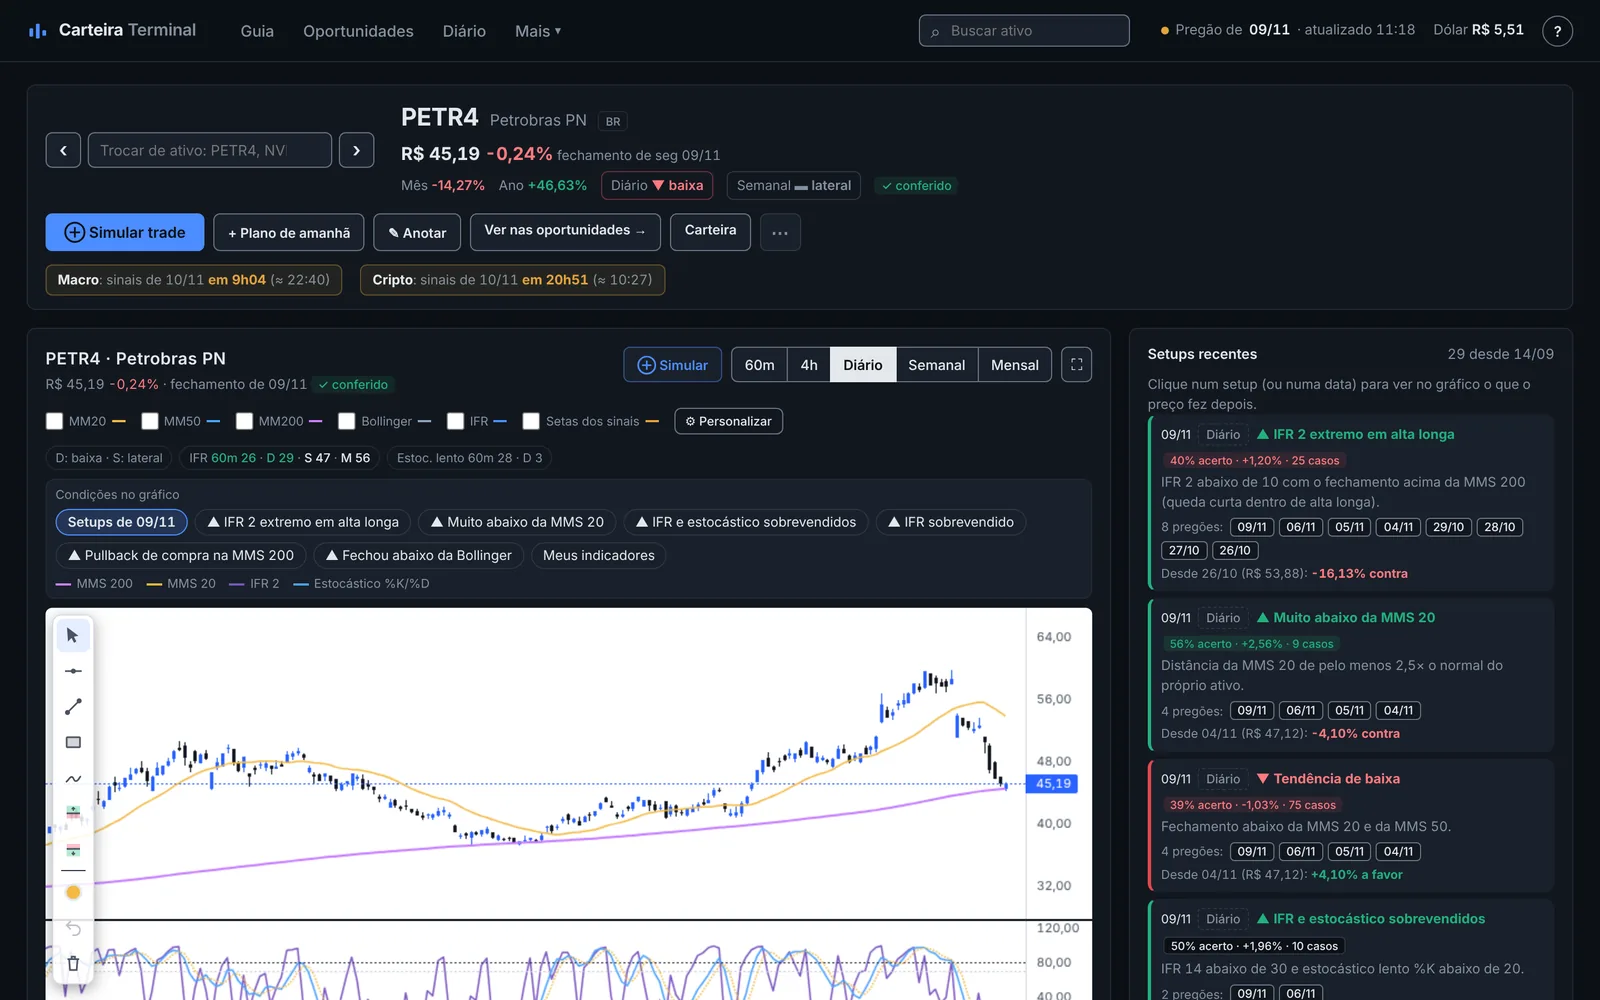
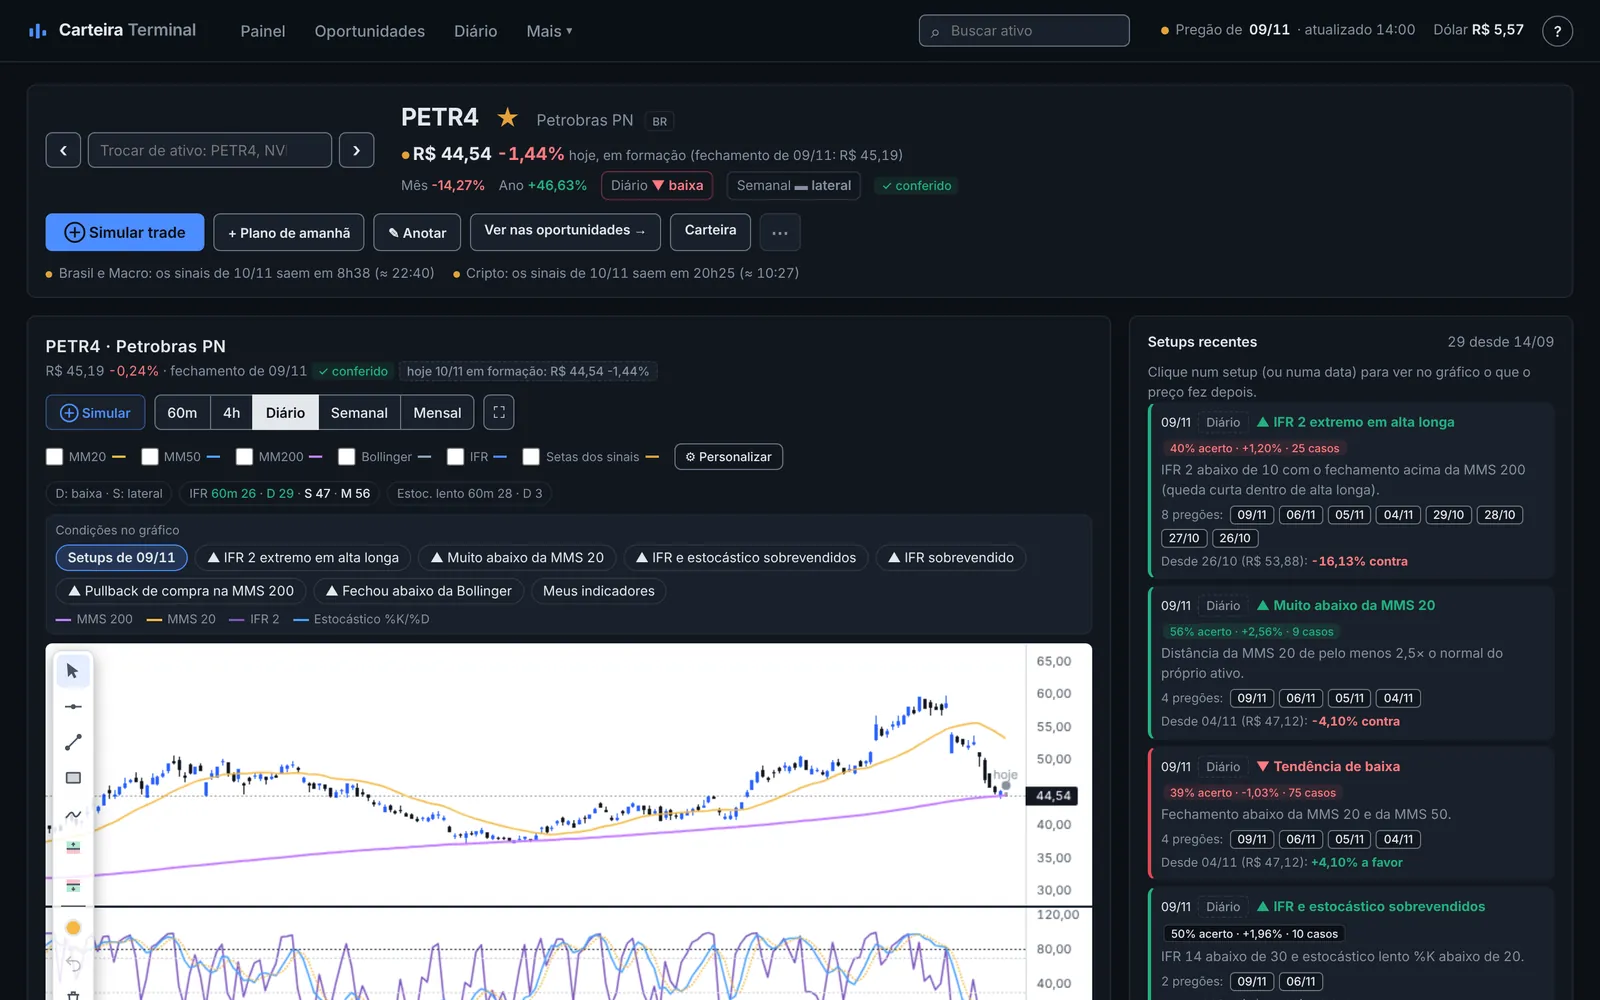
Landing: capturas refeitas com a versão nova e aba do Painel; dólar com 2 casas no Painel
Claude-Session: https://claude.ai/code/session_01Xpsoh6F86iT8zRfPQYwBfr

diff --git a/index.html b/index.html
@@ -161,29 +161,32 @@
     <section class="secao dentro" id="por-dentro" aria-labelledby="dentro-titulo">
       <p class="sobretitulo">Por dentro do terminal</p>
       <h2 id="dentro-titulo">O produto de verdade, <em>sem maquete</em>.</h2>
-      <p class="secao-sub">Quatro telas do terminal, como ele aparece para quem usa. Escolha uma:</p>
+      <p class="secao-sub">Cinco telas do terminal, como ele aparece para quem usa. Escolha uma:</p>
       <div class="dentro-abas" id="dentro-abas" role="tablist" aria-label="Telas do terminal">
-        <button type="button" role="tab" id="dentro-aba-0" aria-controls="dentro-painel" aria-selected="true">Oportunidades</button>
-        <button type="button" role="tab" id="dentro-aba-1" aria-controls="dentro-painel" aria-selected="false" tabindex="-1">Página do ativo</button>
-        <button type="button" role="tab" id="dentro-aba-2" aria-controls="dentro-painel" aria-selected="false" tabindex="-1">Top do dia</button>
-        <button type="button" role="tab" id="dentro-aba-3" aria-controls="dentro-painel" aria-selected="false" tabindex="-1">Backtest</button>
+        <button type="button" role="tab" id="dentro-aba-0" aria-controls="dentro-painel" aria-selected="true">Painel</button>
+        <button type="button" role="tab" id="dentro-aba-1" aria-controls="dentro-painel" aria-selected="false" tabindex="-1">Oportunidades</button>
+        <button type="button" role="tab" id="dentro-aba-2" aria-controls="dentro-painel" aria-selected="false" tabindex="-1">Página do ativo</button>
+        <button type="button" role="tab" id="dentro-aba-3" aria-controls="dentro-painel" aria-selected="false" tabindex="-1">Top do dia</button>
+        <button type="button" role="tab" id="dentro-aba-4" aria-controls="dentro-painel" aria-selected="false" tabindex="-1">Backtest</button>
       </div>
       <div class="dentro-janela vidro" id="dentro-painel" role="tabpanel" aria-labelledby="dentro-aba-0">
-        <div class="janela-barra" aria-hidden="true"><i></i><i></i><i></i><span id="dentro-url">carteira-terminal · oportunidades</span></div>
+        <div class="janela-barra" aria-hidden="true"><i></i><i></i><i></i><span id="dentro-url">carteira-terminal · painel</span></div>
         <div class="dentro-telas">
-          <img src="assets/img/landing/terminal-setups.webp" width="1600" height="1000" loading="lazy" decoding="async" data-tela="0"
+          <img src="assets/img/landing/terminal-painel.webp" width="1600" height="1000" loading="lazy" decoding="async" data-tela="0"
+            alt="Painel do terminal: índices do Brasil e do mundo com minigráfico, termômetro do mercado com a parcela de ativos em alta e em baixa, e o Top do dia com os sinais de melhor histórico.">
+          <img src="assets/img/landing/terminal-setups.webp" width="1600" height="1000" loading="lazy" decoding="async" data-tela="1" hidden
             alt="Tela Oportunidades do terminal: filtros à esquerda para escolher comprar ou vender, o mercado e o tipo de oportunidade, e à direita cartões de ativos com gráfico de velas e os setups que apareceram hoje.">
-          <img src="assets/img/landing/terminal-ativo.webp" width="1600" height="1000" loading="lazy" decoding="async" data-tela="1" hidden
+          <img src="assets/img/landing/terminal-ativo.webp" width="1600" height="1000" loading="lazy" decoding="async" data-tela="2" hidden
             alt="Página de um ativo (PETR4) no terminal: preço e variação, gráfico de velas com médias e a lista de setups recentes, cada um com a taxa de acerto e o número de casos anteriores.">
-          <img src="assets/img/landing/terminal-ranking.webp" width="1600" height="1000" loading="lazy" decoding="async" data-tela="2" hidden
+          <img src="assets/img/landing/terminal-ranking.webp" width="1600" height="1000" loading="lazy" decoding="async" data-tela="3" hidden
             alt="Tela Top do dia: duas listas, uma de compra e outra de venda, com os sinais de hoje que têm o melhor histórico, mostrando quantas vezes o setup deu lucro naquele ativo.">
-          <img src="assets/img/landing/terminal-backtest.webp" width="1600" height="1000" loading="lazy" decoding="async" data-tela="3" hidden
+          <img src="assets/img/landing/terminal-backtest.webp" width="1600" height="1000" loading="lazy" decoding="async" data-tela="4" hidden
             alt="Tela Backtest: tabela com cada setup, o número de casos em 6 anos, a taxa de acerto, o retorno médio e a vantagem sobre entrar num dia qualquer, ao lado da lista de ativos onde o setup escolhido funcionou melhor.">
         </div>
       </div>
       <p class="dentro-legenda" id="dentro-legenda" aria-live="polite"></p>
       <p class="dentro-dica">Deslize a imagem para os lados para ver a tela inteira.</p>
-      <div class="prova-acoes"><a class="botao botao-primario" id="dentro-link" href="setups.html">Abrir esta tela no terminal →</a></div>
+      <div class="prova-acoes"><a class="botao botao-primario" id="dentro-link" href="painel.html">Abrir esta tela no terminal →</a></div>
       <p class="aviso-legal">Capturas reais do terminal publicado; os números mudam todo dia. Resultado passado não garante resultado futuro. Não é recomendação de investimento.</p>
     </section>
 

diff --git a/assets/js/landing.js b/assets/js/landing.js
@@ -429,6 +429,7 @@
     const abas = $$("#dentro-abas [role=tab]"), telas = $$(".dentro-telas img"), painel = $("#dentro-painel");
     if (!abas.length) return;
     const TELAS = [
+      { url: "carteira-terminal · painel", href: "painel.html", legenda: "Painel: como está o mercado hoje, em uma tela. Índices, quantos ativos estão em alta ou em baixa, o mapa de calor e os sinais com melhor histórico." },
       { url: "carteira-terminal · oportunidades", href: "setups.html", legenda: "Oportunidades: escolha comprar ou vender, o mercado e o tipo de oportunidade, e veja os ativos que formaram um setup hoje, cada um no gráfico." },
       { url: "carteira-terminal · ativo", href: "ativo.html#PETR4.SA", legenda: "Página do ativo: gráfico completo e os setups recentes, cada um com quantas vezes aquele sinal deu lucro naquele ativo." },
       { url: "carteira-terminal · top do dia", href: "ranking.html", legenda: "Top do dia: os sinais de hoje com o melhor histórico, de compra e de venda, ordenados pela confiabilidade dos casos anteriores." },

diff --git a/assets/js/painel.js b/assets/js/painel.js
@@ -115,7 +115,7 @@ function tile([tk, nome]) {
   return el("a", { class: "pn-tile", href: urlAtivo(tk),
     title: `${a.nome ?? nome}${p.parcial ? " · pregão em andamento" : ""}. Abrir a página do ativo.` },
     el("span", { class: "pn-tile-nome" }, nome),
-    el("span", { class: "pn-tile-valor mono" }, fmtMoeda(p.ultimo, a.moeda)),
+    el("span", { class: "pn-tile-valor mono" }, tk === "USDBRL=X" ? `R$ ${fmtNum(p.ultimo, 2)}` : fmtMoeda(p.ultimo, a.moeda)),
     el("span", { class: "pn-tile-vars" },
       el("span", { class: `mono ${cor(p.var_pct)}` }, el("small", {}, "dia "), fmtPct(p.var_pct)),
       el("span", { class: `mono ${cor(a.var_mes_pct)}` }, el("small", {}, "mês "), fmtPct(a.var_mes_pct))),
